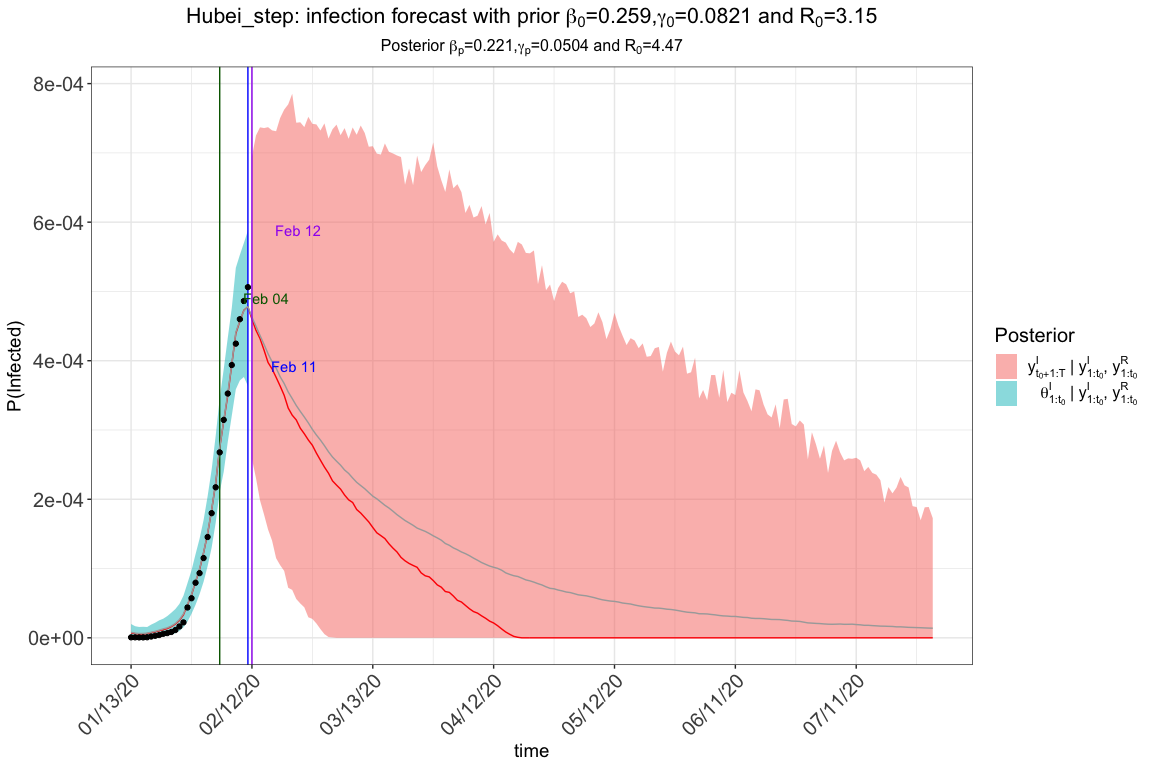
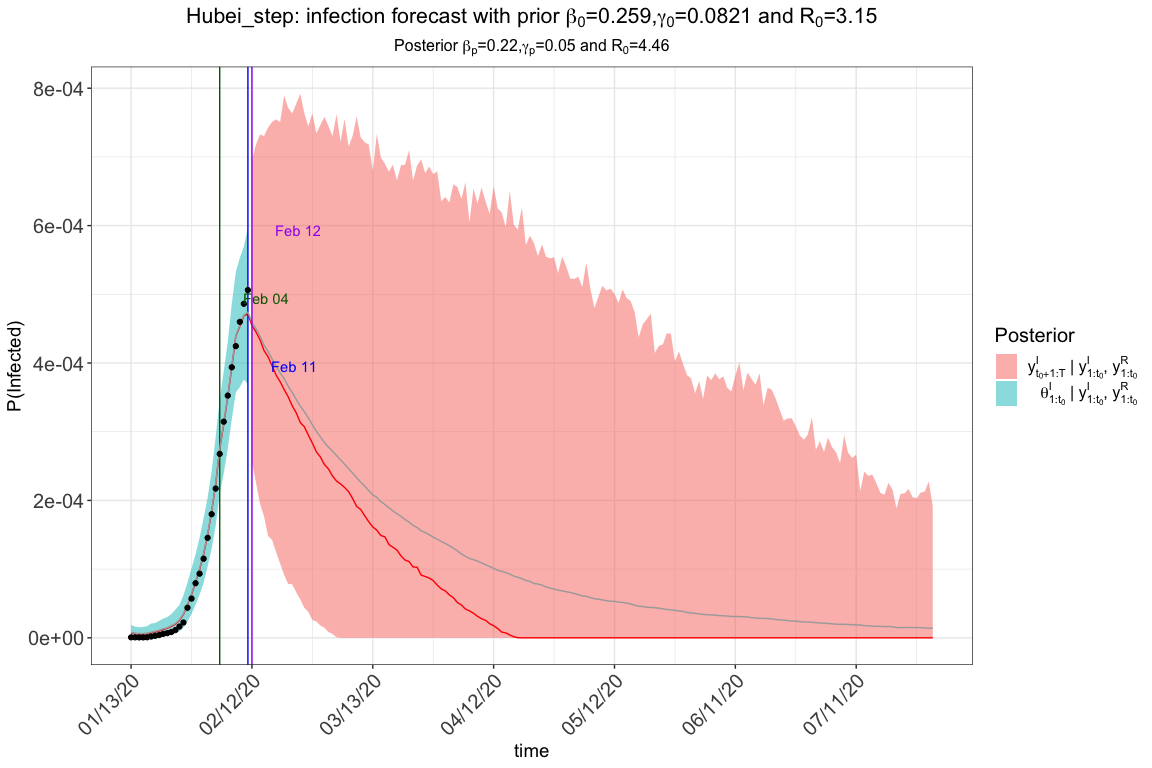
correct spacing

diff --git a/README.md b/README.md
@@ -72,21 +72,22 @@ set.seed(20192020)
 library(eSIR)
 # Hubei province data Jan13 -> Feb 11
 # cumulative number of infected
-NI_complete <- c( 41,41,41,45,62,131,200,270,375,444,549, 729,
-                   1052,1423,2714,3554,4903,5806,7153,9074,11177,
+NI_complete <- c( 41, 41, 41, 45, 62, 131, 200, 270, 375, 444, 549, 729,
+                   1052, 1423, 2714, 3554, 4903, 5806, 7153, 9074, 11177,
                 13522,16678,19665,22112,24953,27100,29631,31728,33366)
-  RI_complete <- c(1,1,7,10,14,20,25,31,34,45,55,71,94,121,152,213,
-                   252,345,417,561,650,811,1017,1261,1485,1917,2260,
-                   2725,3284,3754)
-  N=58.5e6
-  R <- RI_complete/N
-  Y <- NI_complete/N- R #Jan13->Feb 11
+  RI_complete <- c(1, 1, 7, 10, 14, 20, 25, 31, 34, 45, 55, 71, 94, 
+                   121, 152, 213, 252, 345, 417, 561, 650, 811, 
+                   1017, 1261, 1485, 1917, 2260, 2725,3284,3754)
+  N <- 58.5e6
+  R <- RI_complete / N
+  Y <- NI_complete / N - R #Jan13->Feb 11
   ### Step function of pi(t)
-  change_time <- c("01/23/2020","02/04/2020","02/08/2020")
-  pi0<- c(1.0,0.9,0.5,0.1)
-  res.step <-tvt.eSIR(Y,R,begin_str="01/13/2020",T_fin=200,
-            pi0=pi0,change_time=change_time,dic=T,casename="Hubei_step",
-            save_files = T, save_mcmc=F,save_plot_data = F,M=5e3,nburnin = 2e3)
+  change_time <- c("01/23/2020", "02/04/2020", "02/08/2020")
+  pi0<- c(1.0, 0.9, 0.5, 0.1)
+  res.step <- tvt.eSIR(Y, R, begin_str = "01/13/2020", T_fin = 200,
+            pi0 = pi0, change_time = change_time, dic = T, 
+            casename = "Hubei_step", save_files = T, save_mcmc=F,
+            save_plot_data = F, M = 5e3, nburnin = 2e3)
 #> The follow-up is from 01/13/20 to 07/30/20 and the last observed date is 02/11/20.
 #> Running for step-function pi(t)
 #> Compiling model graph
@@ -98,6 +99,7 @@ NI_complete <- c( 41,41,41,45,62,131,200,270,375,444,549, 729,
 #>    Total graph size: 1875
 #> 
 #> Initializing model
+  
   res.step$plot_infection
 ```
 
@@ -117,15 +119,15 @@ NI_complete <- c( 41,41,41,45,62,131,200,270,375,444,549, 729,
 
 ``` r
   res.step$dic_val
-#> Mean deviance:  -1259 
-#> penalty 38.32 
-#> Penalized deviance: -1220
+#> Mean deviance:  -1258 
+#> penalty 40.34 
+#> Penalized deviance: -1218
 
   ### continuous exponential function of pi(t)
-  res.exp <- tvt.eSIR(Y,R,begin_str="01/13/2020",death_in_R = 0.4,
-                      T_fin=200,exponential=TRUE,dic=F,lambda0=0.05,
-                     casename="Hubei_exp",save_files = F,save_mcmc=F,
-                     save_plot_data = F,M=5e3,nburnin = 2e3)
+  res.exp <- tvt.eSIR(Y, R, begin_str="01/13/2020", death_in_R = 0.4,
+                      T_fin = 200, exponential = TRUE, dic=F, lambda0 = 0.05,
+                     casename = "Hubei_exp", save_files = F, save_mcmc = F,
+                     save_plot_data = F, M = 5e3,nburnin = 2e3)
 #> The follow-up is from 01/13/20 to 07/30/20 and the last observed date is 02/11/20.
 #> Running for exponential-function pi(t)
 #> Compiling model graph
@@ -137,6 +139,7 @@ NI_complete <- c( 41,41,41,45,62,131,200,270,375,444,549, 729,
 #>    Total graph size: 1875
 #> 
 #> Initializing model
+  
   res.exp$plot_infection
 ```
 
@@ -152,7 +155,9 @@ NI_complete <- c( 41,41,41,45,62,131,200,270,375,444,549, 729,
   #res.exp$plot_removed
 
   ### without pi(t), the standard state-space SIR model without intervention
-  res.nopi <- tvt.eSIR(Y,R,begin_str="01/13/2020",death_in_R = 0.4,T_fin=200,                              casename="Hubei_nopi",save_files = F,save_plot_data = F,
+  res.nopi <- tvt.eSIR(Y, R, begin_str = "01/13/2020", death_in_R = 0.4, 
+                       T_fin = 200, casename = "Hubei_nopi",
+                       save_files = F,save_plot_data = F,
                        M=5e3,nburnin = 2e3)
 #> The follow-up is from 01/13/20 to 07/30/20 and the last observed date is 02/11/20.
 #> Running without pi(t)
@@ -189,22 +194,25 @@ By introducing a vector of `phi` and its corresponding changing points `change_t
 
 ``` r
 set.seed(20192020)
-NI_complete <- c( 41,41,41,45,62,131,200,270,375,444,549, 729,
-                    1052,1423,2714,3554,4903,5806,7153,9074,11177,
-                    13522,16678,19665,22112,24953,27100,29631,31728,33366)
-  RI_complete <- c(1,1,7,10,14,20,25,31,34,45,55,71,94,121,152,213,
-                   252,345,417,561,650,811,1017,1261,1485,1917,2260,
-                   2725,3284,3754)
-  N=58.5e6
-  R <- RI_complete/N
-  Y <- NI_complete/N- R #Jan13->Feb 11
+NI_complete <- c( 41, 41, 41, 45, 62, 131, 200, 270, 375, 444,
+                  549, 729, 1052, 1423, 2714, 3554, 4903, 5806,
+                  7153, 9074, 11177, 13522, 16678, 19665, 22112,
+                  24953, 27100, 29631, 31728, 33366)
+  RI_complete <- c(1, 1, 7, 10, 14, 20, 25, 31, 34, 45, 55, 
+                   71, 94, 121, 152, 213, 252, 345, 417, 561,
+                   650, 811, 1017, 1261, 1485, 1917, 2260,
+                   2725, 3284, 3754)
+  N <- 58.5e6
+  R <- RI_complete / N
+  Y <- NI_complete / N - R #Jan13->Feb 11
 
-  change_time <- c("01/23/2020","02/04/2020","02/08/2020")
-  phi0 <- c(0.1,0.4,0.4)
-  res.q <- qh.eSIR (Y,R,begin_str="01/13/2020",
-                    phi0=phi0,change_time=change_time,casename="Hubei_q",
-                    save_files = T,save_mcmc = F,save_plot_data = F,
-                    M=5e3,nburnin = 2e3)
+  change_time <- c("01/23/2020", "02/04/2020", "02/08/2020")
+  phi0 <- c(0.1, 0.4, 0.4)
+  res.q <- qh.eSIR(Y, R, begin_str = "01/13/2020",
+                    phi0 = phi0,change_time = change_time, 
+                   casename = "Hubei_q", save_files = T,
+                   save_mcmc = F,save_plot_data = F,
+                    M = 5e3,nburnin = 2e3)
 #> The follow-up is from 01/13/20 to 07/30/20 and the last observed date is 02/11/20.
 #> Running for qh.eSIR
 #> Compiling model graph
@@ -234,8 +242,8 @@ You will obtain the following plot in addition to the traceplots and summary tab
 
 ![Standard SIR](man/figures/Hubei_qthetaQ_plot.png)
 
-Model 3 using `eSAIR`: SIR with time-varying immunization with antibody positivity
-----------------------------------------------------------------------------------
+Model 3 using `eSAIR`: SIR with time-varying subset of population immunized with antibody positivity
+----------------------------------------------------------------------------------------------------
 
 To address the under-reporting issue associated with the available public databases and to build the self-immunization into the infection dynamics, we then further extend the previous eSIR model to an eSAIR model by adding an antibody (A) compartment. As is shown in the bottom thread of the following figure, this A compartment accounts for the probability of being self-immunized with antibodies to COVID-19, denoted by *θ*<sub>*t*</sub><sup>*A*</sup>; see equation as follows too, where *α*(*t*) is a function describing the proportion of people moving from the susceptible compartment to the antibody compartment over time. Compartment A helps circumvent limitations of data collection, especially embracing individuals who were infected but self-cured at home with no confirmation by viral RT-PCR diagnostic tests. This new eSAIR model characterizes the underlying population-level dynamics of the pandemic. The following system of ordinary differential equations defines collectively the continuous-time dynamics for the eSAIR model, which governs the law of movements among four compartments of Susceptible, Self-immunized, Infected and Removed.
 
@@ -246,16 +254,16 @@ To address the under-reporting issue associated with the available public databa
 In the example below, we implemented this function onto New York state data assuming that by April 29, 20% of the population have been self-immunized with antibody positivity.
 
 ``` r
-NI_complete <- c( 1,2,11,23,31,76,106,142,150,220,327,
-                  421,613,615,967,1578,3038,5704,8403,
-                  11727,15800,20884,25681,30841,37877,
-                  44876,52410,59648,66663,75833,83948,
-                  92506,102987,113833,123160,131815,
-                  139875,151061,161779,172348,181026,
-                  189033,195749,203020,214454,223691,
-                  230597,237474,243382,248416,253519,
-                  258222,263460,271590,282143,288045,
-                  291996,295106,299691,304372,308314)
+NI_complete <- c( 1, 2, 11, 23, 31, 76, 106, 142, 150, 220, 327,
+                  421, 613, 615, 967, 1578, 3038, 5704, 8403,
+                  11727, 15800, 20884, 25681, 30841, 37877,
+                  44876, 52410, 59648, 66663, 75833, 83948,
+                  92506, 102987, 113833, 123160, 131815,
+                  139875, 151061, 161779, 172348, 181026,
+                  189033, 195749, 203020, 214454, 223691,
+                  230597, 237474, 243382, 248416, 253519,
+                  258222, 263460, 271590, 282143, 288045,
+                  291996, 295106, 299691, 304372, 308314)
   RI_complete <- c(0, 0, 0, 0, 0, 0, 0, 0, 0, 0, 1, 2, 
                    20, 26, 38, 52, 200, 311, 468, 662,
                    893, 1144, 1547, 2144, 2931, 3900, 
@@ -266,17 +274,17 @@ NI_complete <- c( 1,2,11,23,31,76,106,142,150,220,327,
                    45887, 47473, 47686, 48769, 49572,
                    50221, 52161, 52917, 54115, 54613,
                    55473, 55816, 56809, 57265, 58525)
-  N=8.399e6
-  R <- RI_complete/N
+  N <- 8.399e6
+  R <- RI_complete / N
   
-  Y <- NI_complete/N- R 
+  Y <- NI_complete / N - R 
 
   change_time <- c("04/29/2020")
   alpha0 <- c(0.2) # 20% of the susceptible population were found immunized
-  res.antibody <- eSAIR(Y,R,begin_str="03/01/2020",
-                    alpha0=alpha0,change_time=change_time,
-                    casename="New_York_antibody",save_files = F,save_mcmc = F,
-                    M=5e2,nburnin = 2e2)
+  res.antibody <- eSAIR(Y, R, begin_str = "03/01/2020",
+                    alpha0 = alpha0, change_time = change_time,
+                    casename = "New_York_antibody", save_files = F, 
+                    save_mcmc = F, M=5e2, nburnin = 2e2)
 #> The follow-up is from 03/01/20 to 09/16/20 and the last observed date is 04/30/20.
 #> Running for eSAIR
 #> Compiling model graph
